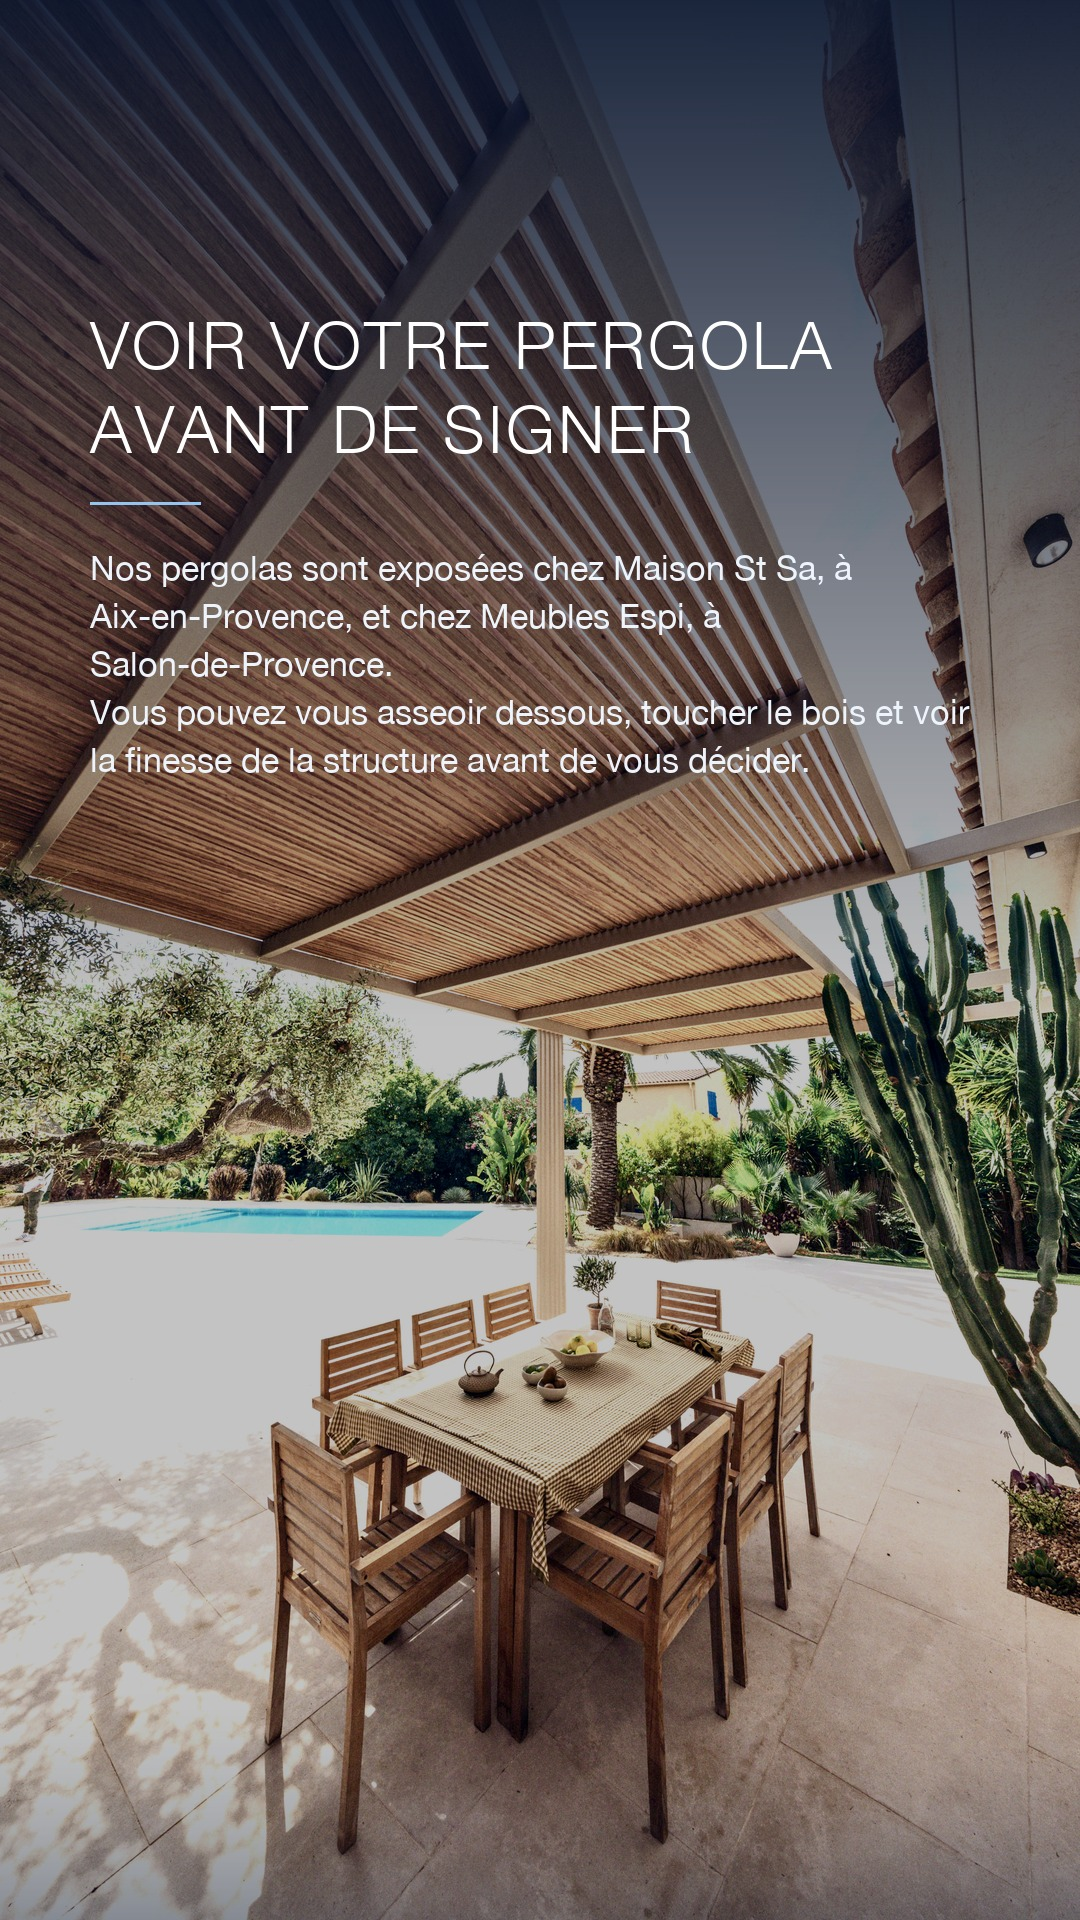
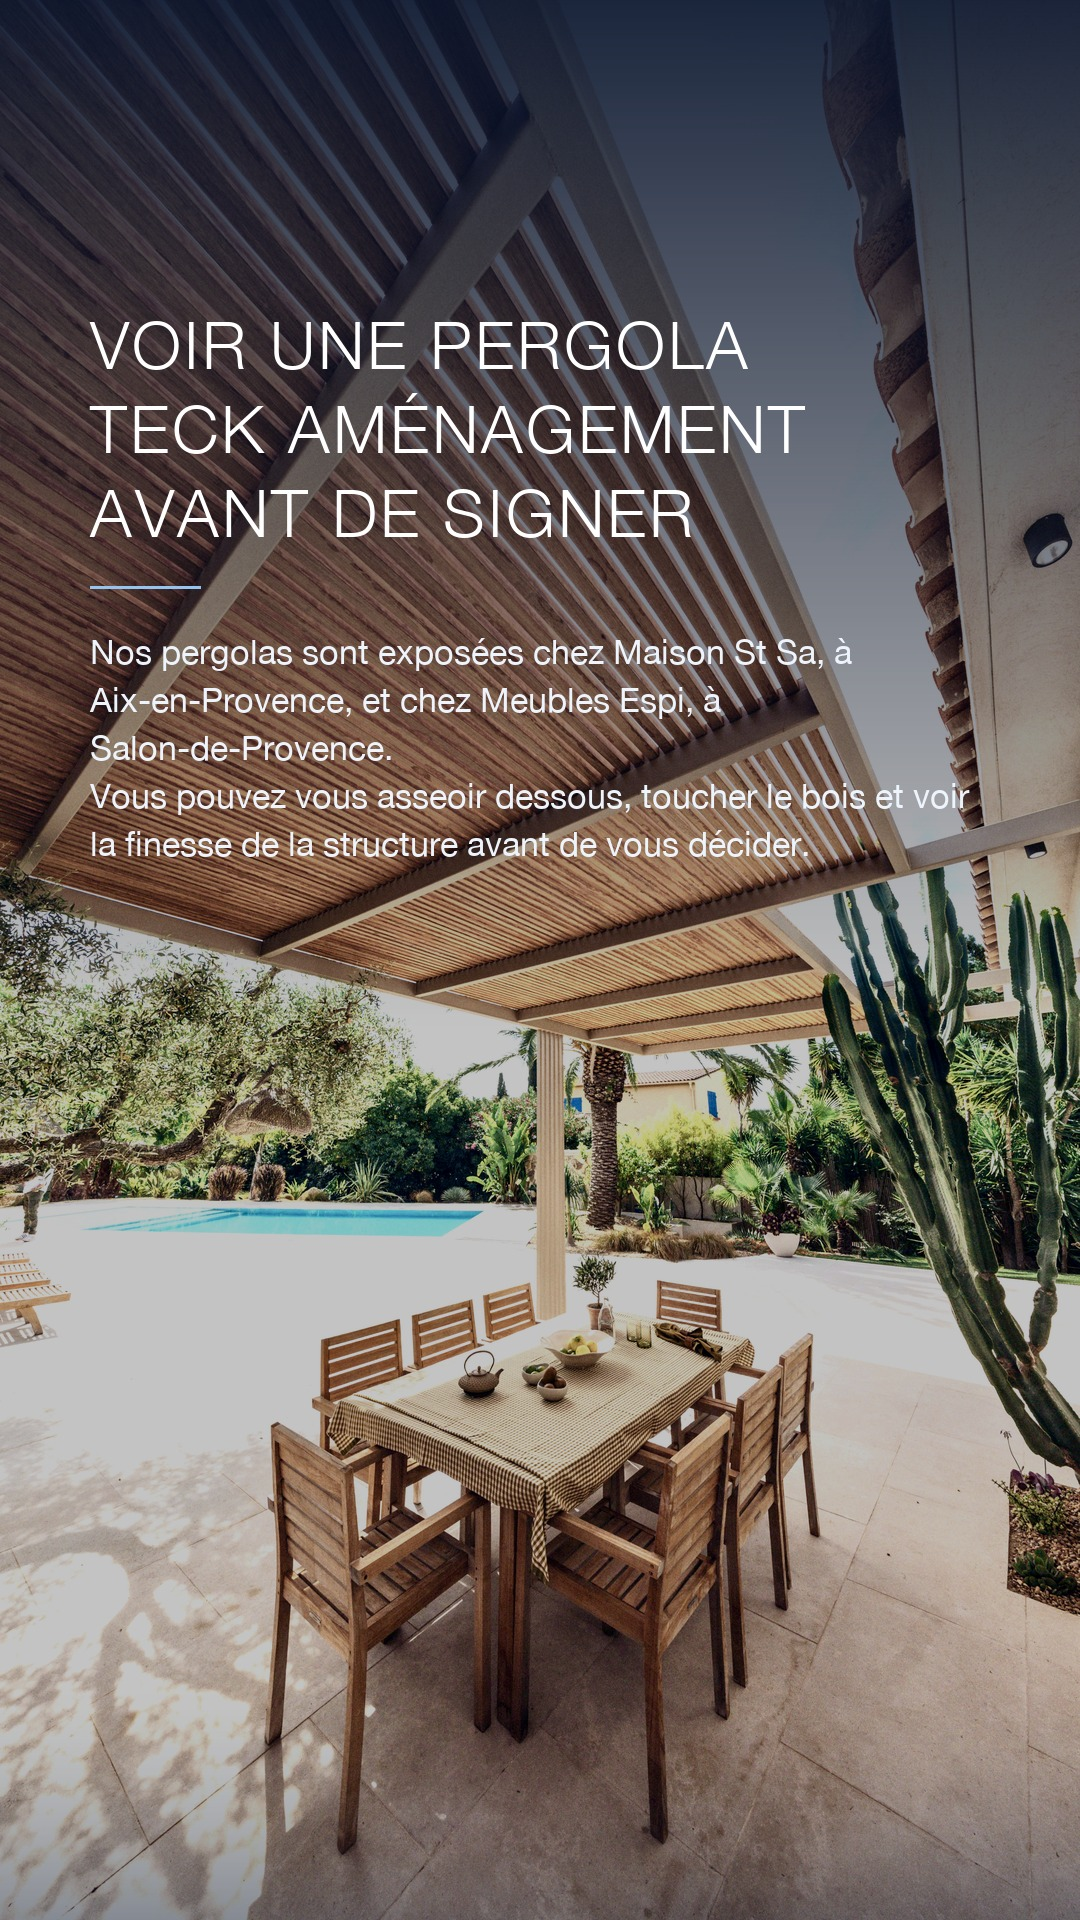
Story du 15/10 : titre « Voir une pergola Teck Aménagement avant de signer »

diff --git a/index.html b/index.html
@@ -557,9 +557,9 @@ C'est là que le claustra sert : il filtre ce soleil rasant et le vis-à-vis, sa
 
   /* 06/10/2026 : remplace « Un puits de lumière », retirée parce que Franck ne veut pas en
      parler sur les réseaux (concurrence). */
-  { id:"svoir", type:"story", num:21, img:"stories-maquettes/S-VOIR-AVANT-DE-SIGNER.jpg", angle:"Voir votre pergola avant de signer",
+  { id:"svoir", type:"story", num:21, img:"stories-maquettes/S-VOIR-AVANT-DE-SIGNER.jpg", angle:"Voir une pergola Teck Aménagement avant de signer",
     status:"apublier", date:"2026-10-15", heure:"18h00",
-    cap:`VOIR VOTRE PERGOLA AVANT DE SIGNER
+    cap:`VOIR UNE PERGOLA TECK AMÉNAGEMENT AVANT DE SIGNER
 
 Nos pergolas sont exposées chez Maison St Sa, à Aix-en-Provence, et chez Meubles Espi, à Salon-de-Provence.
 Vous pouvez vous asseoir dessous, toucher le bois et voir la finesse de la structure avant de vous décider.` },

diff --git a/stories-maquettes/_generateur-stories.py b/stories-maquettes/_generateur-stories.py
@@ -253,7 +253,7 @@ STORIES += [
 # les réseaux). Aucune photo des pergolas exposées chez Maison St Sa ou Espi n'existe : on
 # prend une vue assise sous la pergola de la villa Impian (Mickaël), sans l'ouverture du toit.
 STORIES += [
-    (os.path.join(V, "_LVM1651.jpg"), "Voir votre pergola avant de signer",
+    (os.path.join(V, "_LVM1651.jpg"), "Voir une pergola\nTeck Aménagement\navant de signer",
      "Nos pergolas sont exposées chez Maison St Sa, à Aix-en-Provence, et chez "
      "Meubles Espi, à Salon-de-Provence.\nVous pouvez vous asseoir dessous, toucher "
      "le bois et voir la finesse de la structure avant de vous décider.",
